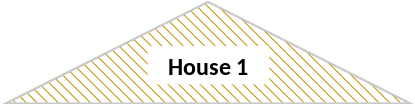
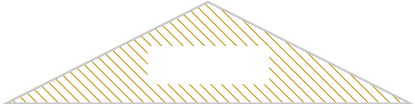
Updated roof image placement

Changed region(s): [[0.4048, 0.5481, 0.6072, 0.7212]]

diff --git a/index.html b/index.html
@@ -14,7 +14,8 @@
                         <div v-for="column in numCols(row)" v-bind:class="{ cell_left: column % 2 == 1, cell_right: column % 2 == 0 }">
                             <form>
                                 <div>
-                                    <img class="roof" v-bind:src="'./img/roof' + (getIndex(row, column) + 1) + '.png'">
+                                    <div class="block_no">{{ "Block " + (getIndex(row, column) + 1) }} </div>
+                                    <img class="roof" src="./img/roof.png">
                                 </div>
                                 <table v-bind:class="{bg_red: active[getIndex(row, column)] && blocks > 1 }">
                                     <tr>

diff --git a/css/main.css b/css/main.css
@@ -107,6 +107,15 @@ div.cell_right {
     object-fit: contain;
 }
 
+.block_no {
+    position: relative;
+    left: 180px;
+    top: 80px;
+    font-size: 16pt;
+    font-weight: bold;
+    font-family: Cablibri, Arial, Sans-serif;
+}
+
 /**
  * Input elements
  */
